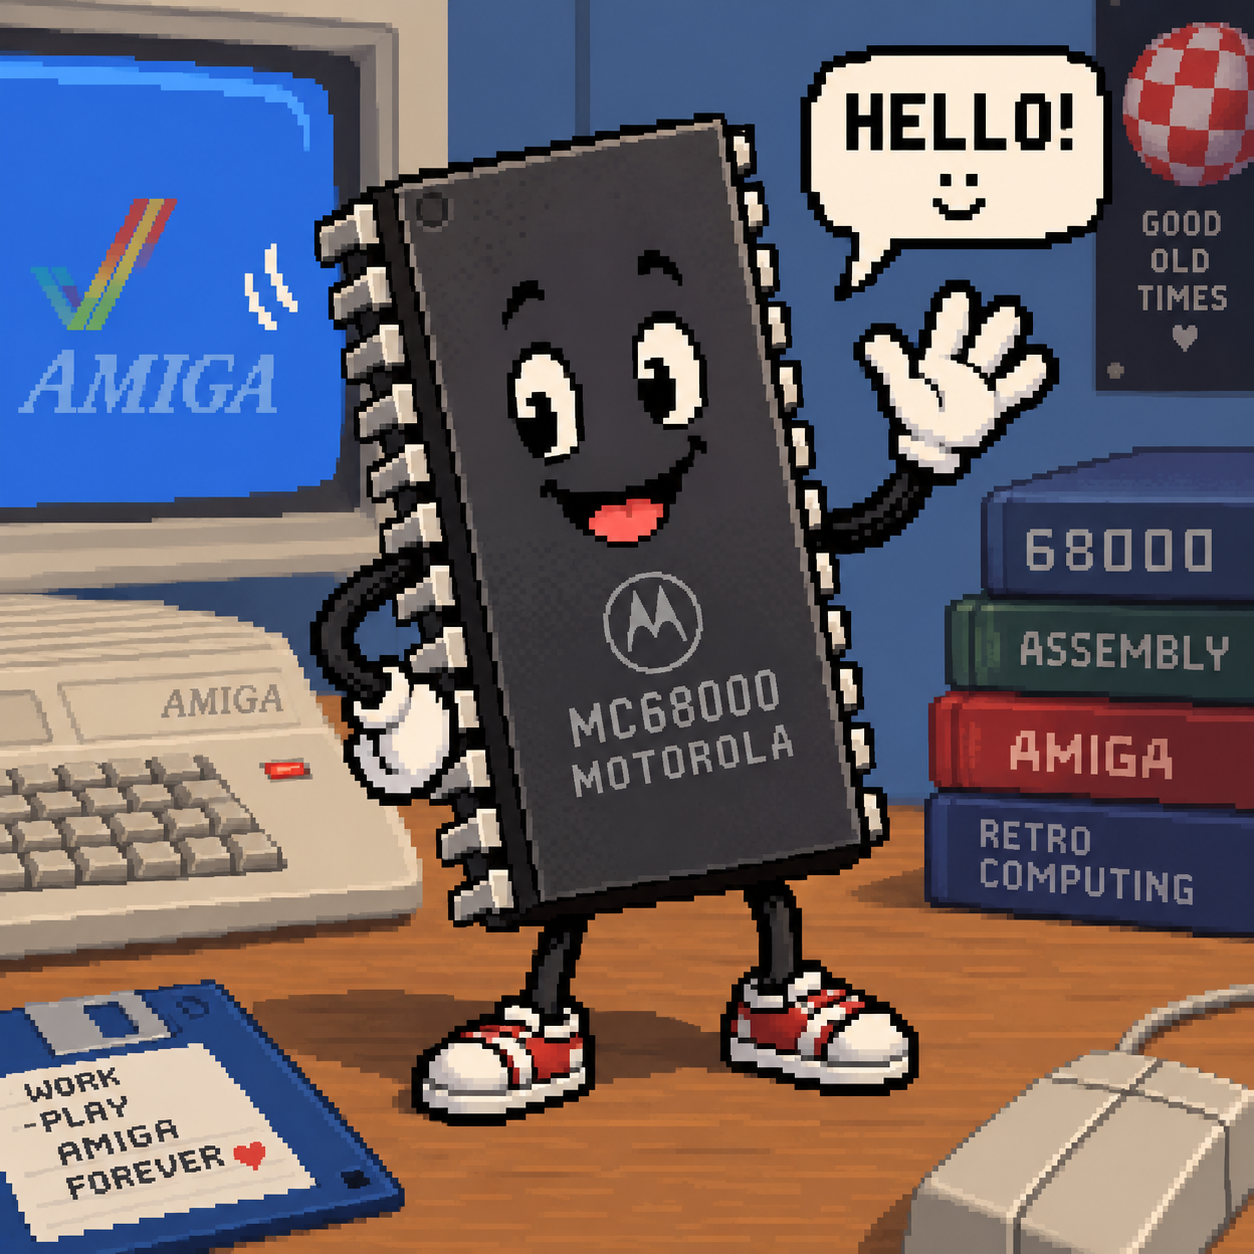
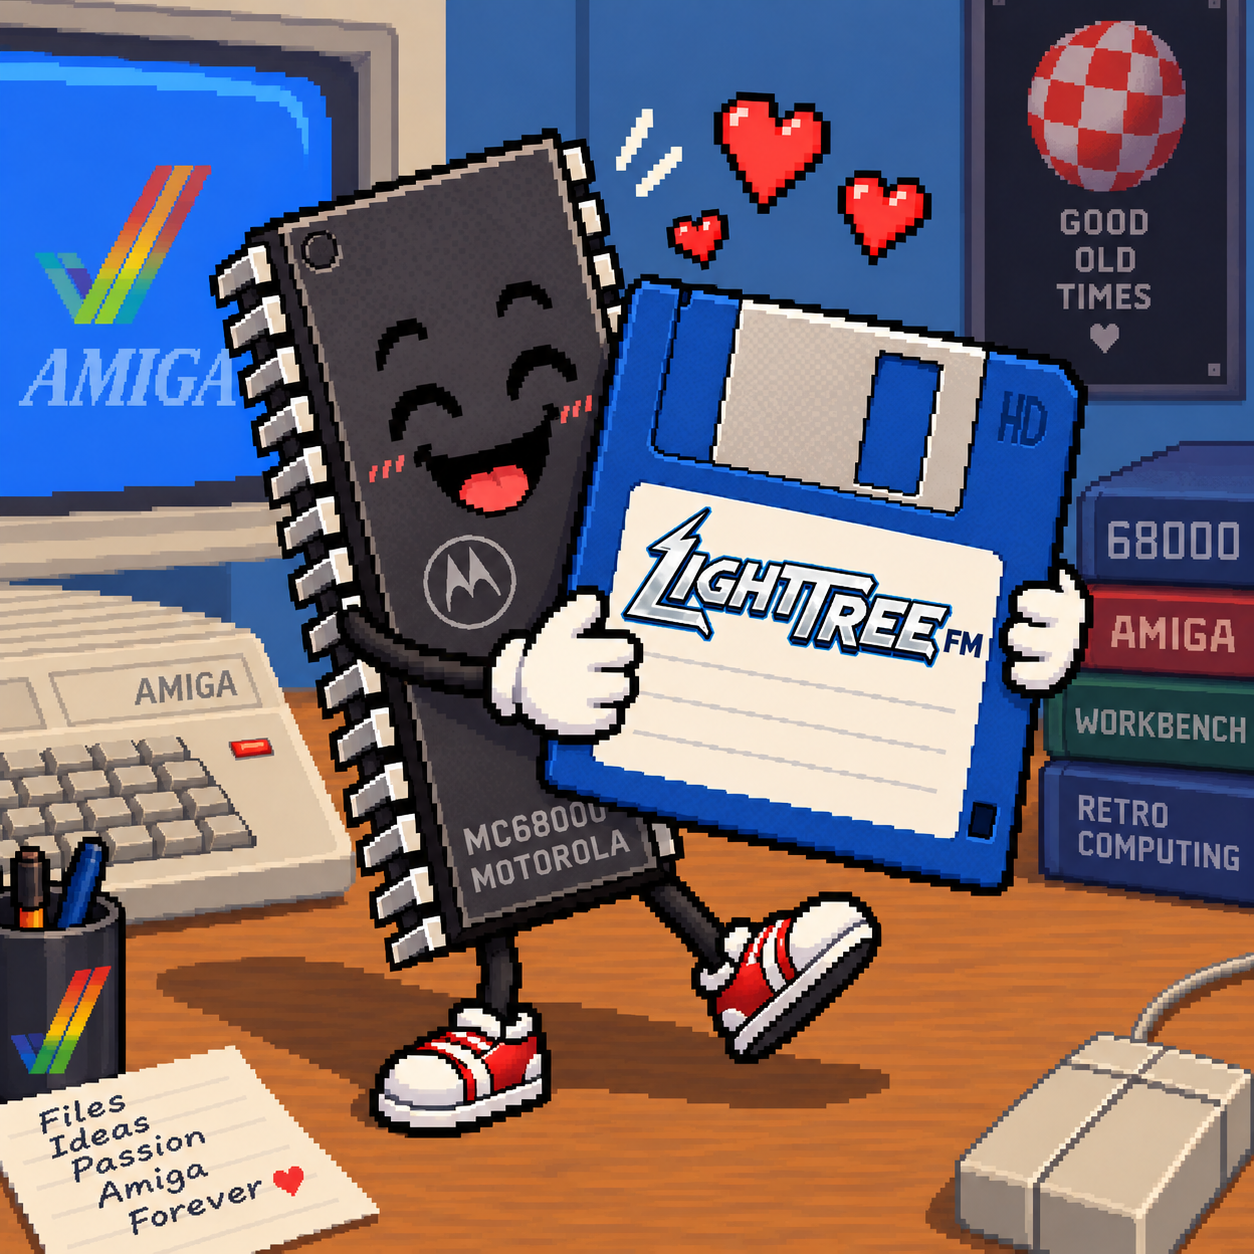
Update Requirements illustration with LightTreeFM floppy artwork

diff --git a/requirements.html b/requirements.html
@@ -50,7 +50,7 @@
             <h1>Requirements</h1>
             <p class="byline">LightTreeFM is designed for classic Amiga computers, accelerated systems and compatible emulators. It supports native Amiga graphics, RTG displays and PiStorm configurations.</p>
         </div>
-            <figure class="portrait"><img src="IMAGES/68k.png" alt="A smiling Motorola 68000 character waving beside a classic Amiga" width="1254" height="1254"></figure>
+            <figure class="portrait"><img src="IMAGES/68k.png?v=2" alt="A smiling Motorola 68000 character hugging a LightTreeFM floppy disk beside a classic Amiga" width="1254" height="1254"></figure>
         </div>
         <article aria-label="LightTreeFM requirements">
             <h2 style="margin-top: 0">Minimum configuration</h2>
